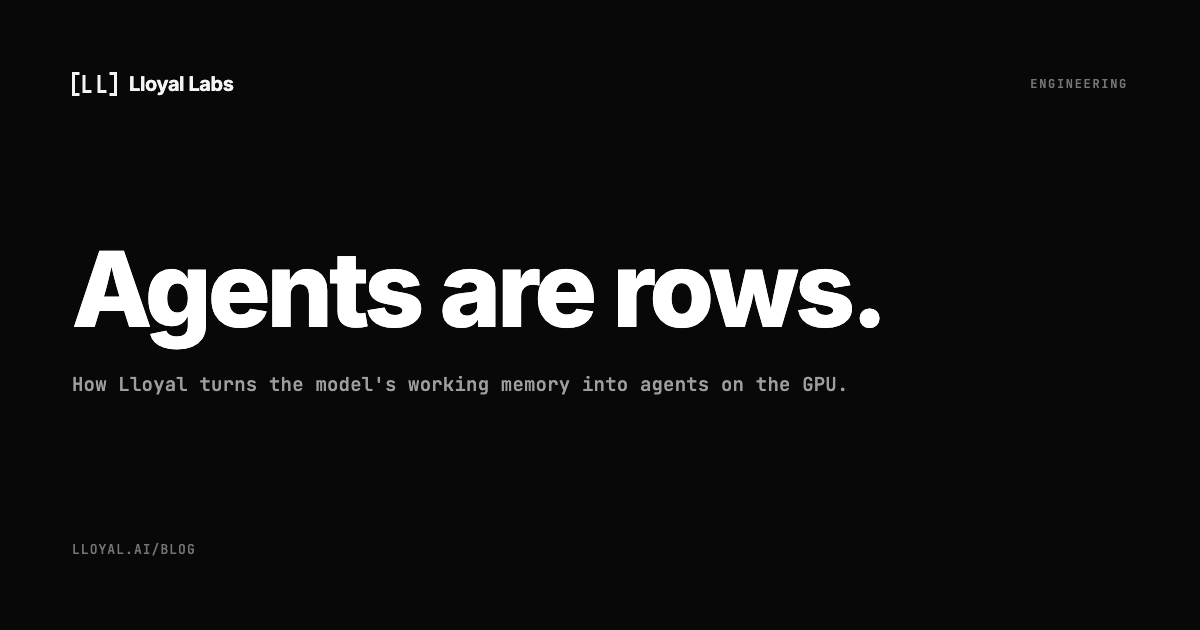
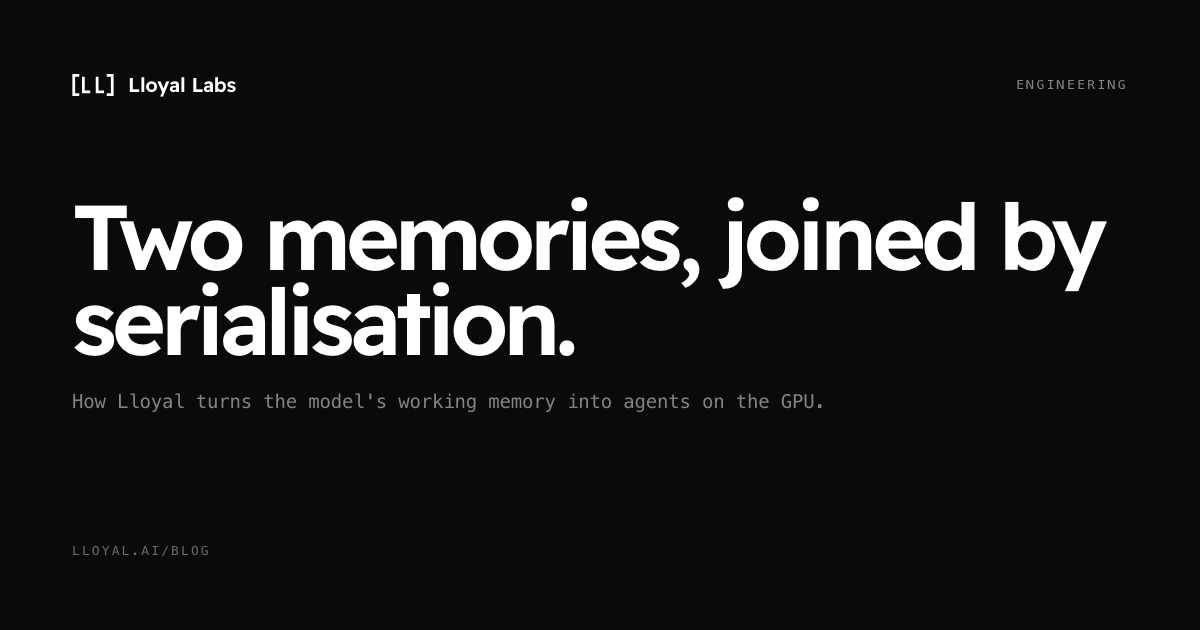
site: a better card for the working-memory post, and one template for both
"Agents are rows." is true and says nothing. It is the mechanism with the point
removed - a reader who has not read the post cannot tell why rows matter, and a
reader who has does not need telling.

The post's own principle line does the work: "two memories, joined by
serialisation. Almost everything that frustrates people about agent systems
follows from that one fact." That is a problem every agent developer has felt,
and it is the reason to click.

The generator also did not run in its own repo - it imported puppeteer, which
was never a dependency here; I had been resolving it from a sibling checkout.
Added as a devDependency with an og:card script, so the committed tool actually
works from a clean clone.

And the copy now comes from the command line rather than living in the template.
Editing the html per card meant re-rendering any earlier card would silently
produce the wrong one. One template, two arguments, and the headline steps down
from 92px until it fits two lines so a long claim degrades instead of
overflowing.

Both cards re-render byte-identically.

diff --git a/tools/og-card.html b/tools/og-card.html
@@ -33,7 +33,7 @@
   .kicker { color: #86847f; font-family: 'SFMono-Regular', Consolas, monospace;
             font-size: 13px; letter-spacing: .18em; text-transform: uppercase; }
   .mid { margin-bottom: 34px; }
-  h1 { color: #fff; font-size: 96px; line-height: .92; letter-spacing: -.055em; font-weight: 600; }
+  h1 { color: #fff; font-size: 92px; line-height: .92; letter-spacing: -.055em; font-weight: 600; }
   .dek { margin-top: 26px; color: #86847f; font-family: 'SFMono-Regular', Consolas, monospace;
          font-size: 19px; letter-spacing: -.01em; }
   .foot { color: #6a6a6a; font-family: 'SFMono-Regular', Consolas, monospace;
@@ -51,8 +51,8 @@
     <div class="kicker">Engineering</div>
   </div>
   <div class="mid">
-    <h1>One command.</h1>
-    <p class="dek">Ship a local AI app in TypeScript.</p>
+    <h1 id="lead">Headline</h1>
+    <p class="dek" id="dek">Dek</p>
   </div>
   <div class="foot">lloyal.ai/blog</div>
 </body></html>
